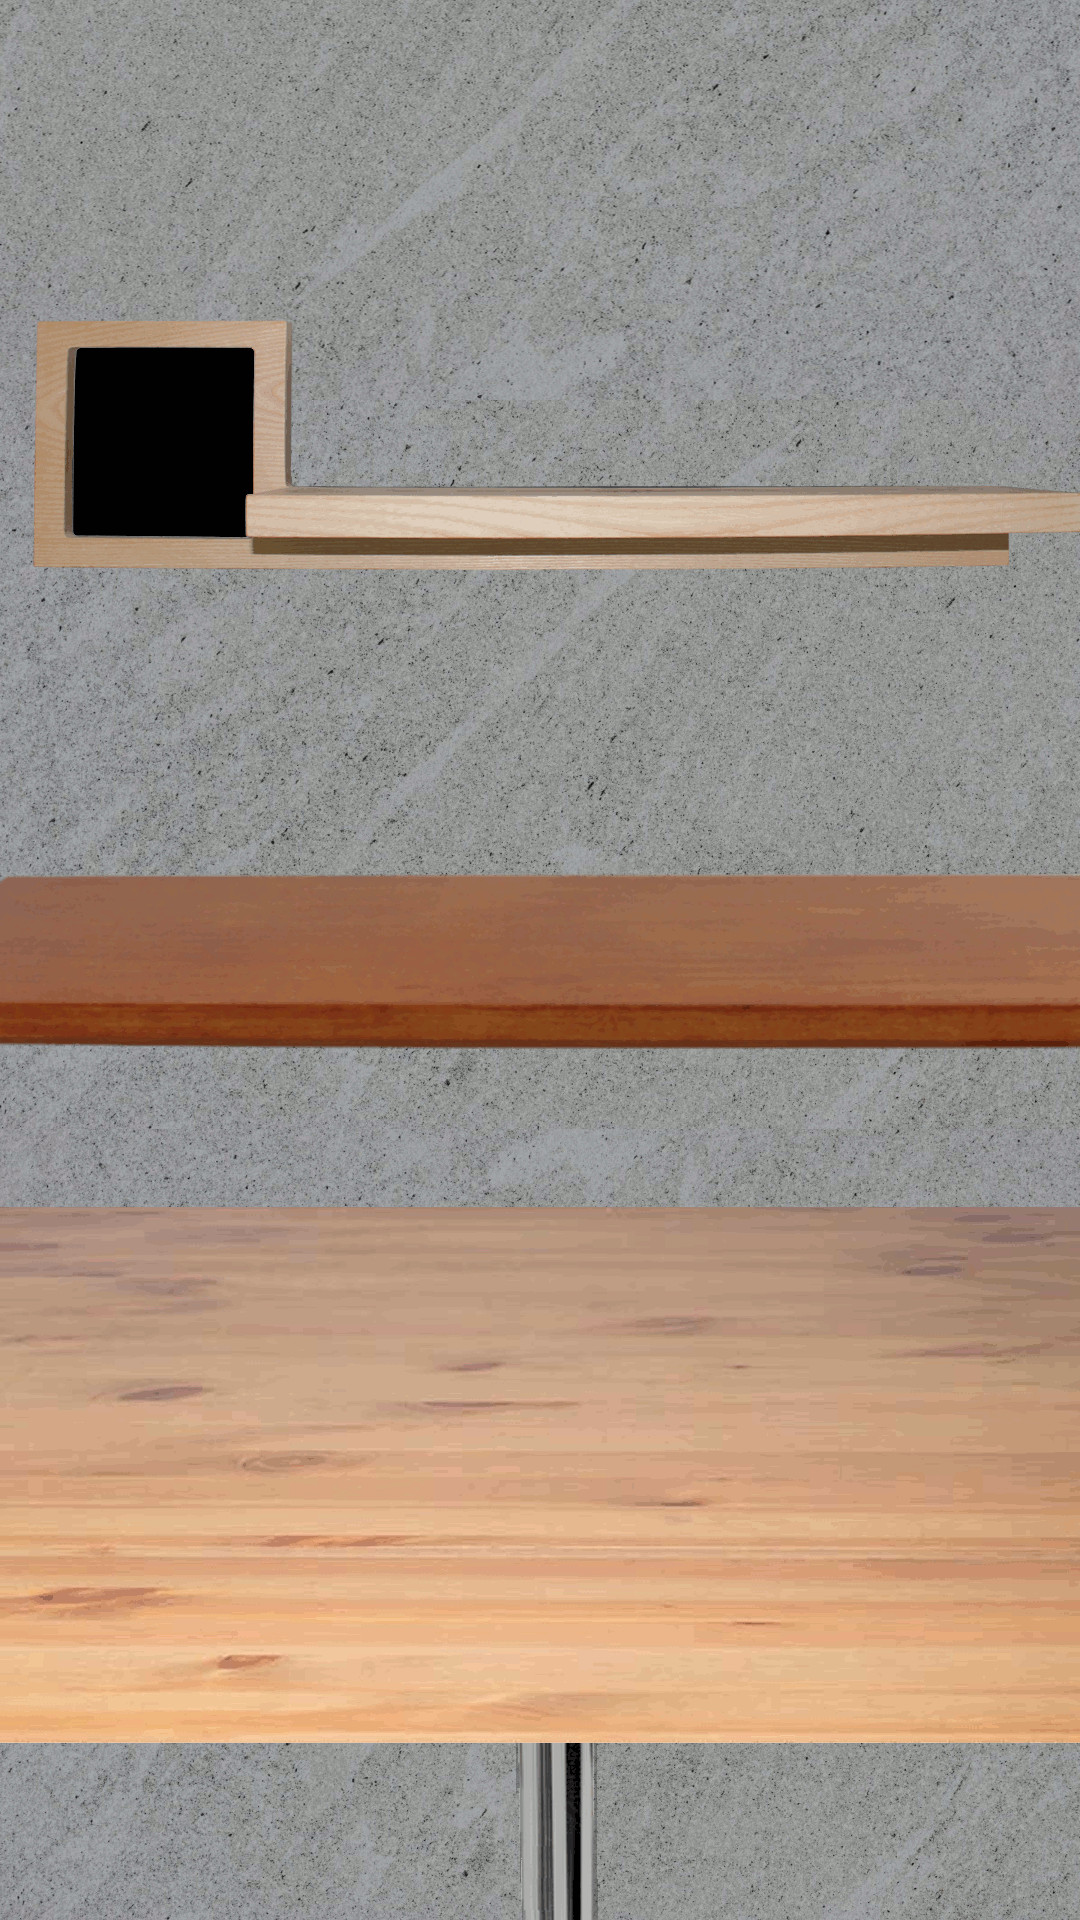
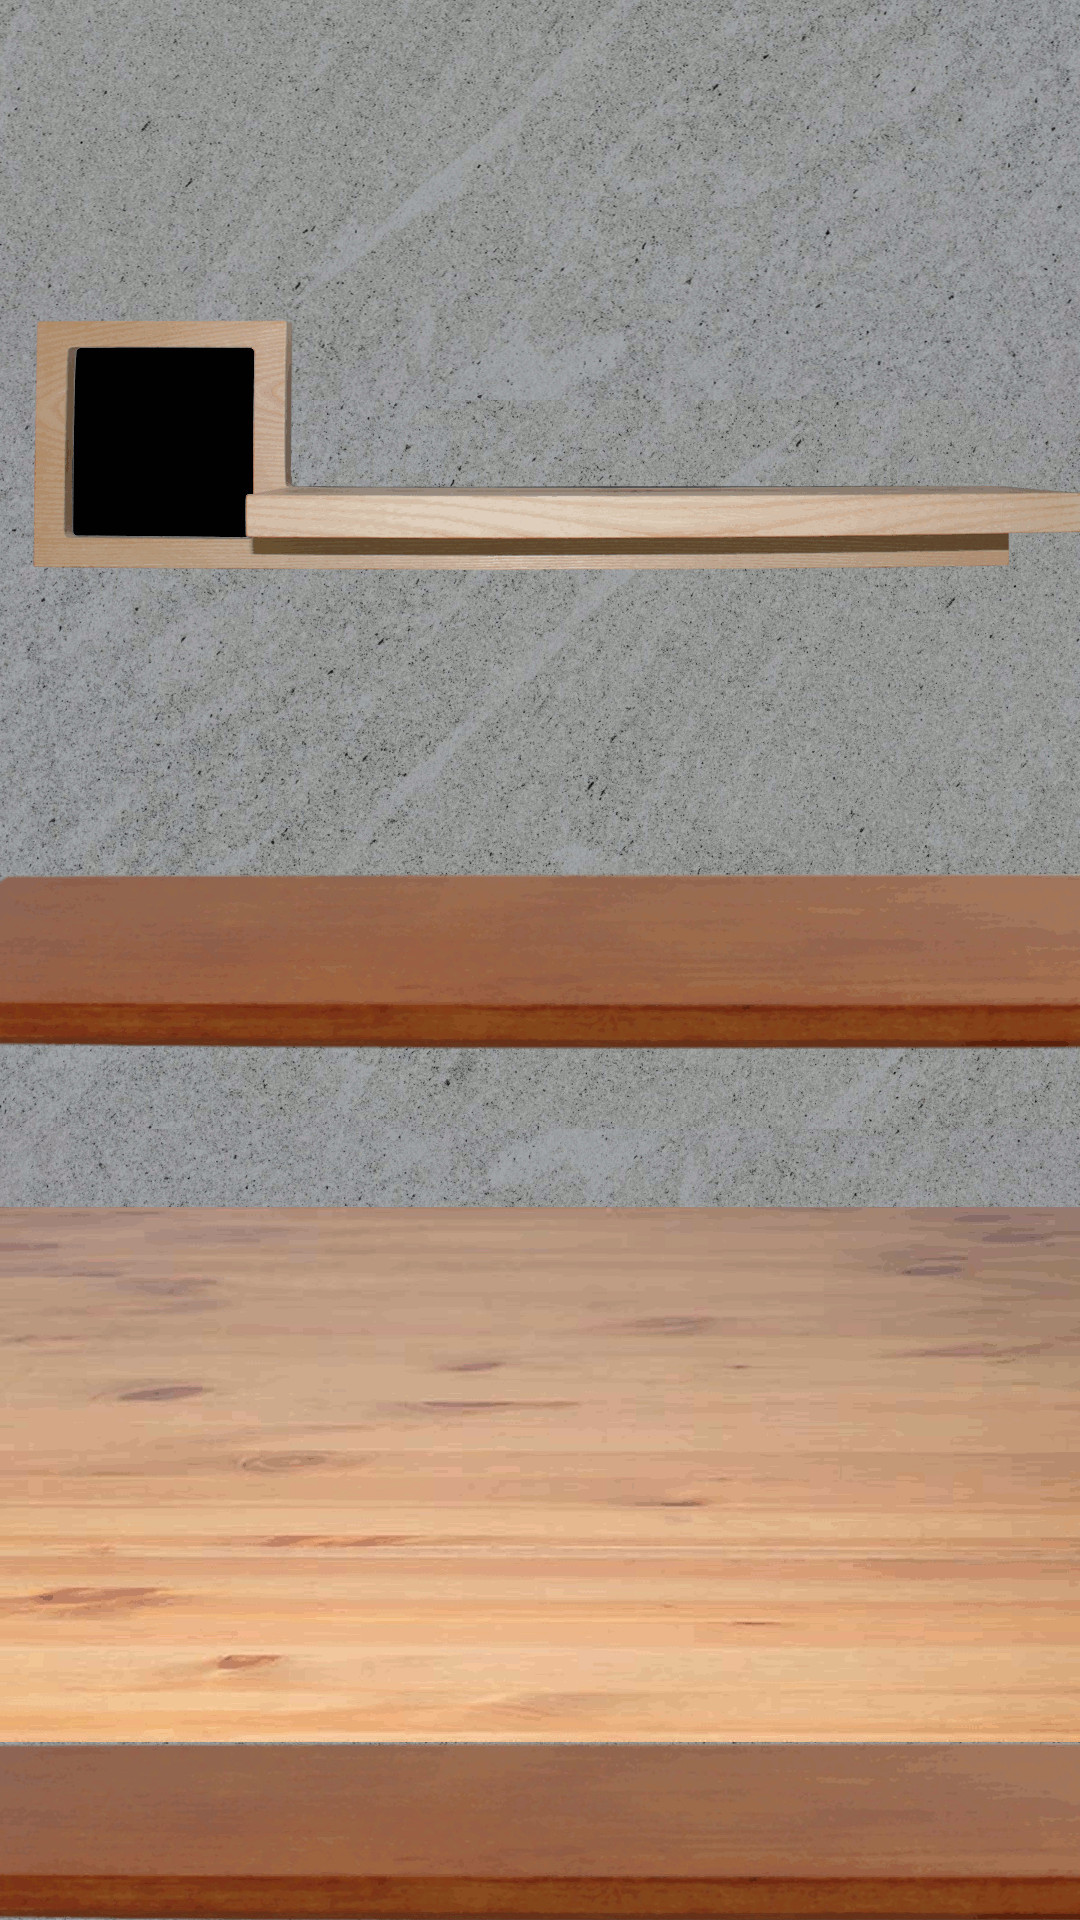
Timer animé et ajustement son

Changed region(s): [[0.0, 0.9062, 1.0, 1.0]]

diff --git a/scenes/main-scene.ts b/scenes/main-scene.ts
@@ -46,27 +46,29 @@ export class MainScene extends Phaser.Scene {
 
     const gameOver = () => {
       const win = step === this.initData.keys.length;
-      this.scene.start("starter", { lastLevelResult: win });
+      if (!win) {
+        this.feedback(false);
+      }
+      setTimeout(() => {
+        this.scene.start("starter", { lastLevelResult: win });
+      }, 200);
       bgMusic.destroy();
     };
 
     const addBg = () => {
       const fond = this.add.image(0, 0, "Fond_etagere");
       fond.setOrigin(0, 0);
-
-      const caddie = this.add.image(W / 2, H, "Caddie");
-      caddie.setOrigin(0.5, 1);
     };
 
     const addTimer = () => {
-      timerText = this.add.text(159, 390, "20", {
+      timerText = this.add.text(159, 450, "20", {
         fontFamily: "Mechanoarc, serif",
         fontSize: "100px",
         color: "white",
         align: "center",
         fixedWidth: 200
       });
-      timerText.setOrigin(0.5, 0);
+      timerText.setOrigin(0.5, 0.5);
     };
 
     const addModele = () => {
@@ -90,6 +92,7 @@ export class MainScene extends Phaser.Scene {
       step++;
       if (step === this.initData.keys.length) {
         levelIsOver = true;
+        mrt.flex(true);
         modele.destroy();
         return;
       }
@@ -112,7 +115,10 @@ export class MainScene extends Phaser.Scene {
 
         o.on("dragstart", (pointer, el: Objet, x, y) => {
           if (levelIsOver) return;
-          this.sound.play(o.texture.key, { volume: 0.5 });
+
+          const key = o.texture.key;
+          const volume = key === "Pomme" ? 0.7 : 0.4;
+          this.sound.play(key, { volume });
           mrt.eat(true);
         });
 
@@ -176,6 +182,20 @@ export class MainScene extends Phaser.Scene {
       callback: () => {
         this.timeRemaining--;
         timerText.setText(String(~~this.timeRemaining));
+        timerText.setScale(3);
+
+        this.add.tween({
+          targets: [timerText],
+          props: {
+            scale: 1
+          },
+          duration: 200
+        });
+
+        if (this.timeRemaining <= 3) {
+          timerText.setColor("red");
+        }
+
         if (this.timeRemaining <= 0) {
           console.log("TIME OUT");
           gameOver();

diff --git a/scenes/starter.ts b/scenes/starter.ts
@@ -94,7 +94,7 @@ export class StarterScene extends Phaser.Scene {
     };
 
     let bgMusic = this.sound.add("MusiqueTransition");
-    bgMusic.play({ volume: 0.6 });
+    bgMusic.play({ volume: 0.3 });
 
     let tvMusic = this.sound.add("TV", { volume: 0.5 });
     tvMusic.play();
